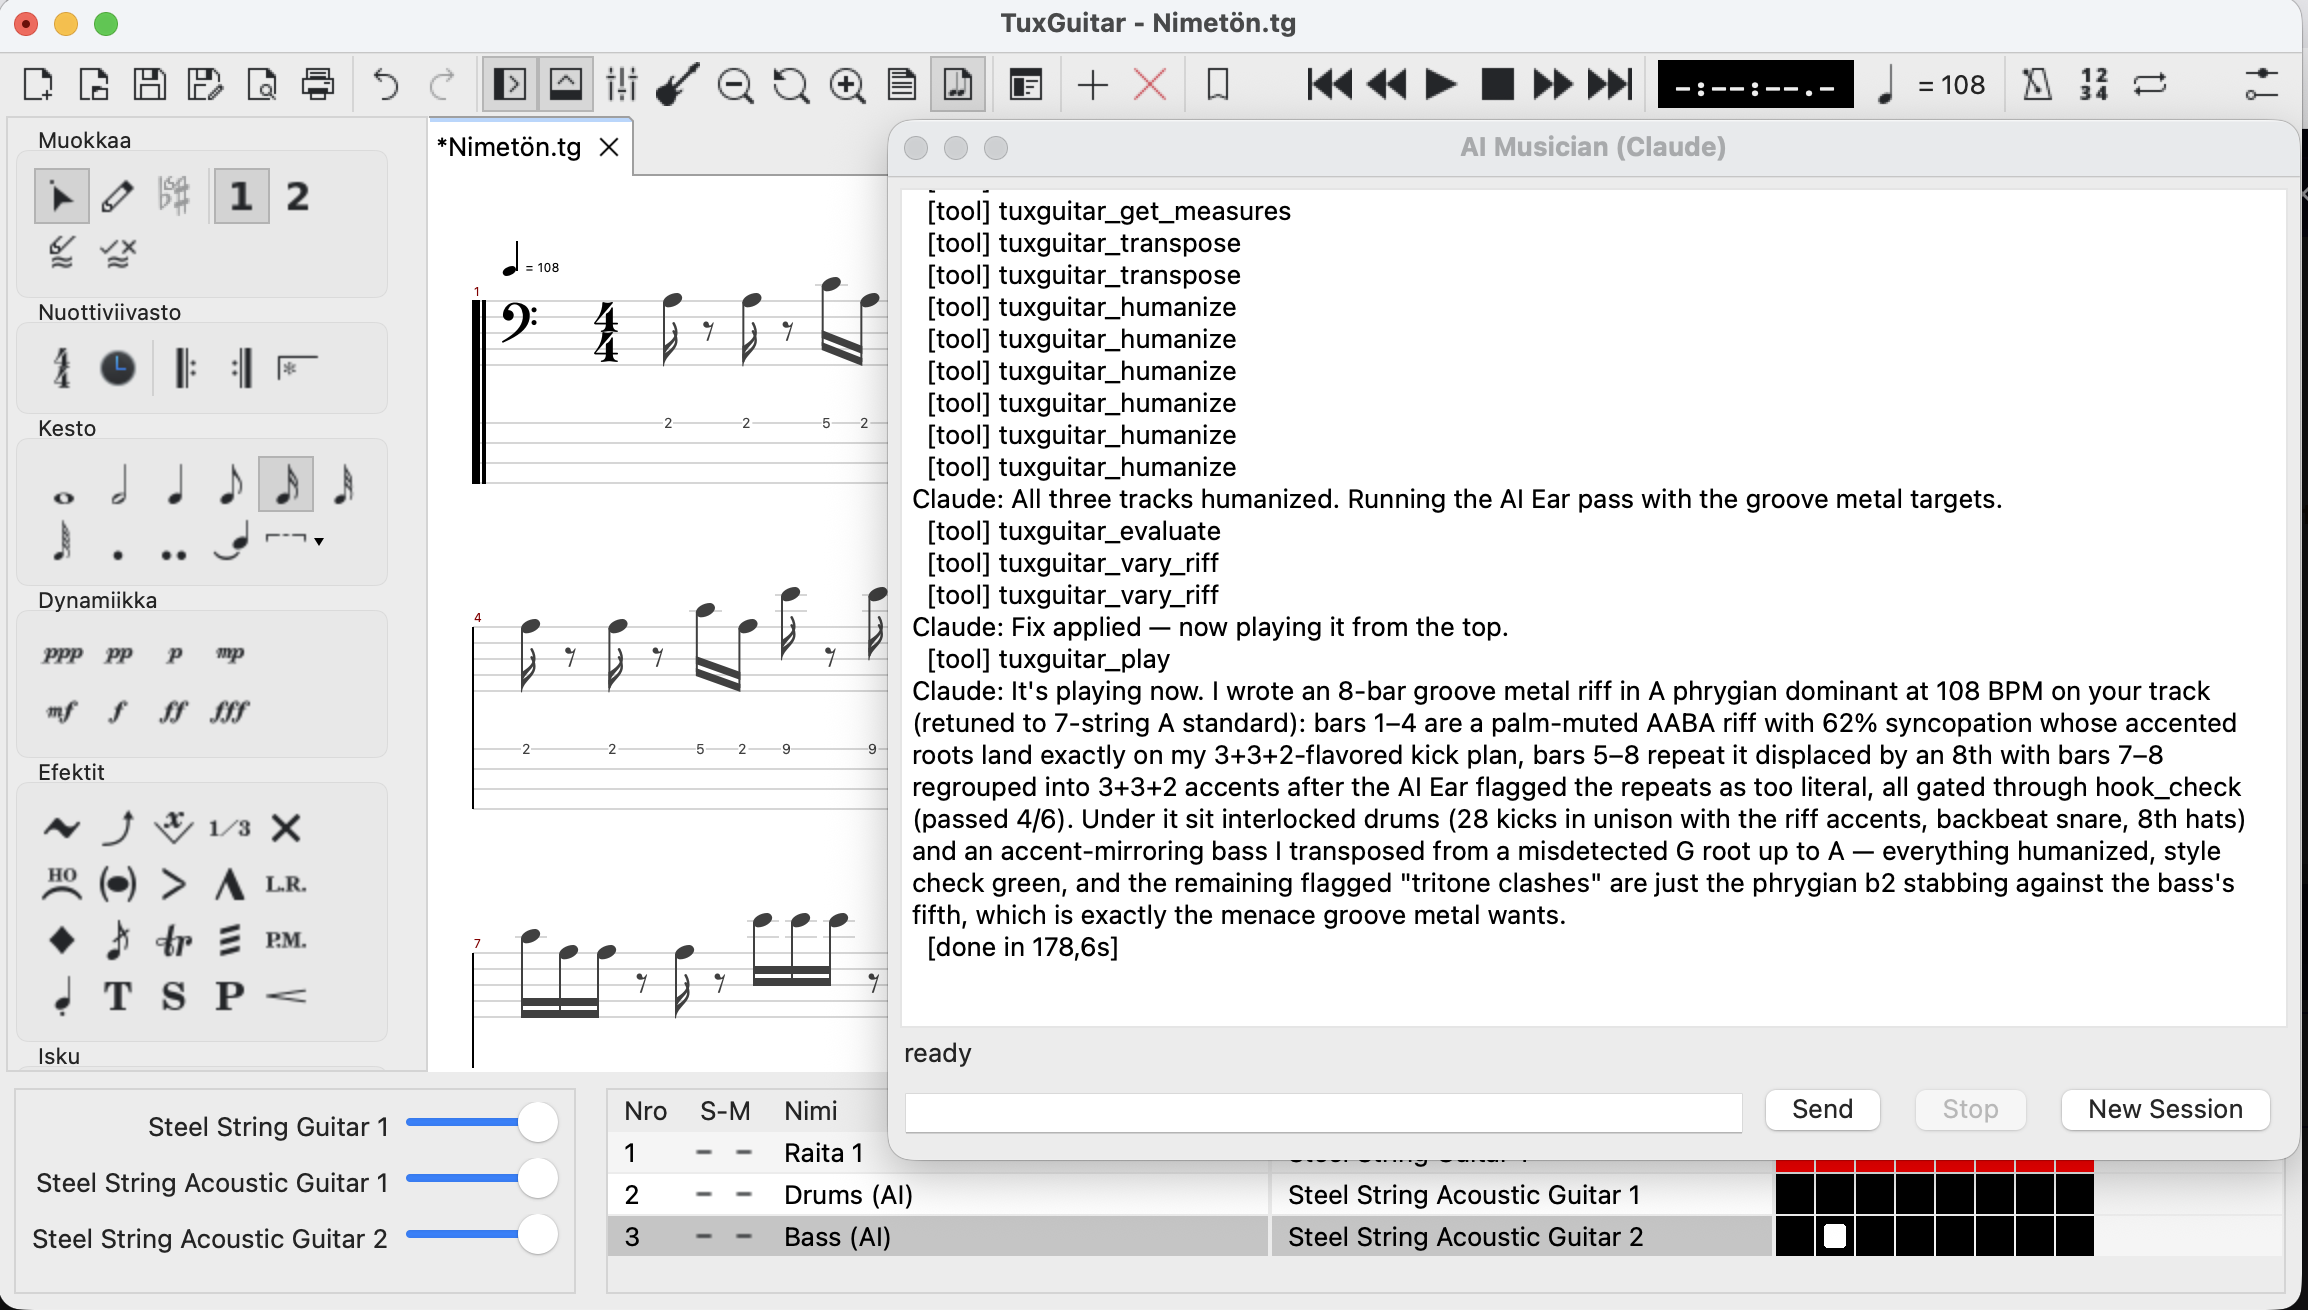
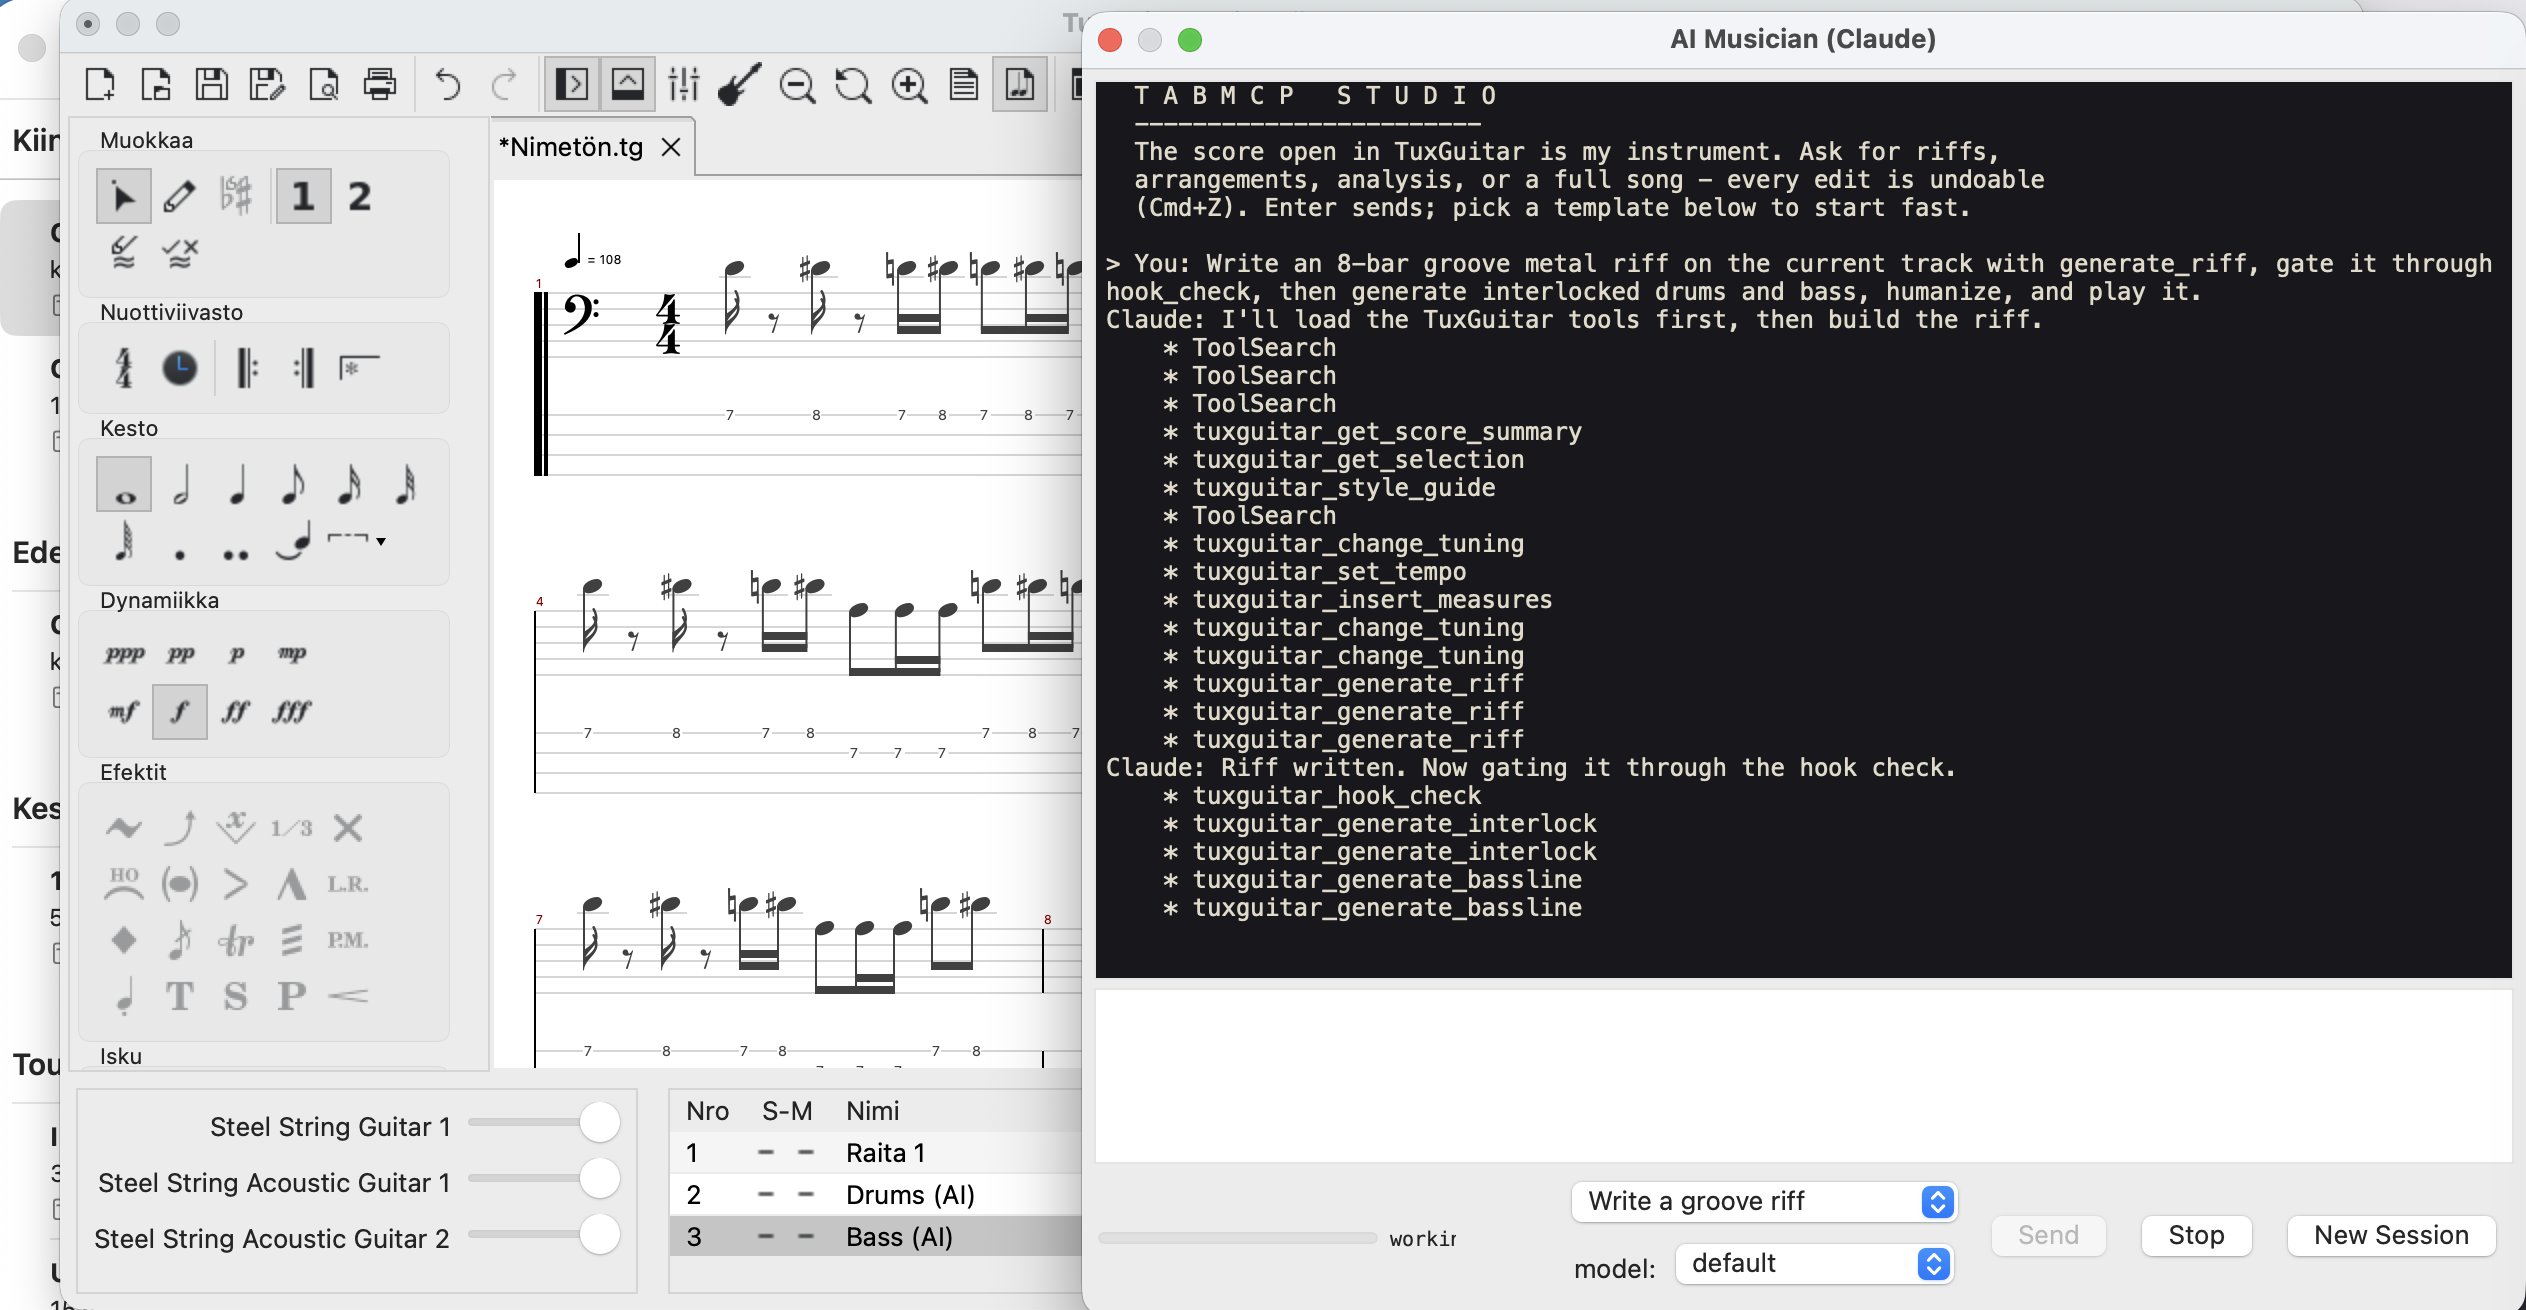
Docs: field round 4 results and refreshed remaining board; updated screenshot

diff --git a/docs/ANALYSIS.md b/docs/ANALYSIS.md
@@ -194,23 +194,30 @@ one. The remaining complexity lives BETWEEN riffs. Build order:
 Deliberately not next: more styles (depth over breadth), micro-timing
 (grid cannot hold it), audio-to-tab stage 2 (research-sized).
 
-## 6. What remains, prioritized (older list)
+## 6. Current remaining board (after the arrangement layer + field round 4)
 
-Near (mechanical): revision-bump coalescing (Java events); tremolo-bar
-curves on write (grace/trill/tremolo-picking shipped in 0.8.0);
-per-section evaluate for ALL metrics (currently groove only);
-technique-budget enforcement (idea 7); generator reason lines (idea 9);
-DNA-bank-driven generation bias (feed saved cards into generate_riff
-constraints).
+Field round 4 (2026-07-20, late evening): the full arrangement pipeline
+was driven end-to-end against live TuxGuitar by a scripted client - 33
+calls, zero tool failures (driver: scratchpad/field_pipeline.py in the
+session workspace). Findings shipped immediately: evaluate skips empty
+tracks; apply_harmony (write a planned progression as power chords);
+generate_riff dna= recall of saved DNA-bank cards. 58 tools.
 
-Middle (design): riff genealogy (named checkpoints and branch trees, idea
-11); chord-progression planner (name a progression, get voicings per
-style plus a voice-leading check); solo scaffolding (contour plan + lick
-cells + the fingering optimizer); A/B render compare with a diff report.
+Near (small): technique-budget enforcement (evaluate checks the measured
+technique mix against a target); generator reason lines (per-decision
+"why" like the fingering explainer); arpeggiator transform (chord ->
+picked pattern); revision-bump coalescing (Java events); tremolo-bar
+curves on write.
 
-Far (research): audio-to-tab Stage 2 (Demucs + basic-pitch); headless
-.tg engine; MCP resources/elicitation; TuxGuitar 2.1 migration; true
-multi-agent band simulation with independent model instances per role.
+Middle (a session each): riff genealogy (named checkpoints and branch
+trees); A/B render compare (audio-side diff between renders); groove
+feel templates (systematic velocity push/pull).
+
+Far (research): true multi-agent band simulation (independent model
+instances per role - the embedded chat's process machinery could host
+it); headless .tg engine; audio-to-tab Stage 2 (Demucs + basic-pitch);
+TabBench (formalize the battles into a public eval); TuxGuitar 2.1
+migration.
 
 Explicitly parked by user: loop-practice transport, distribution
 packaging, live audience simulation.